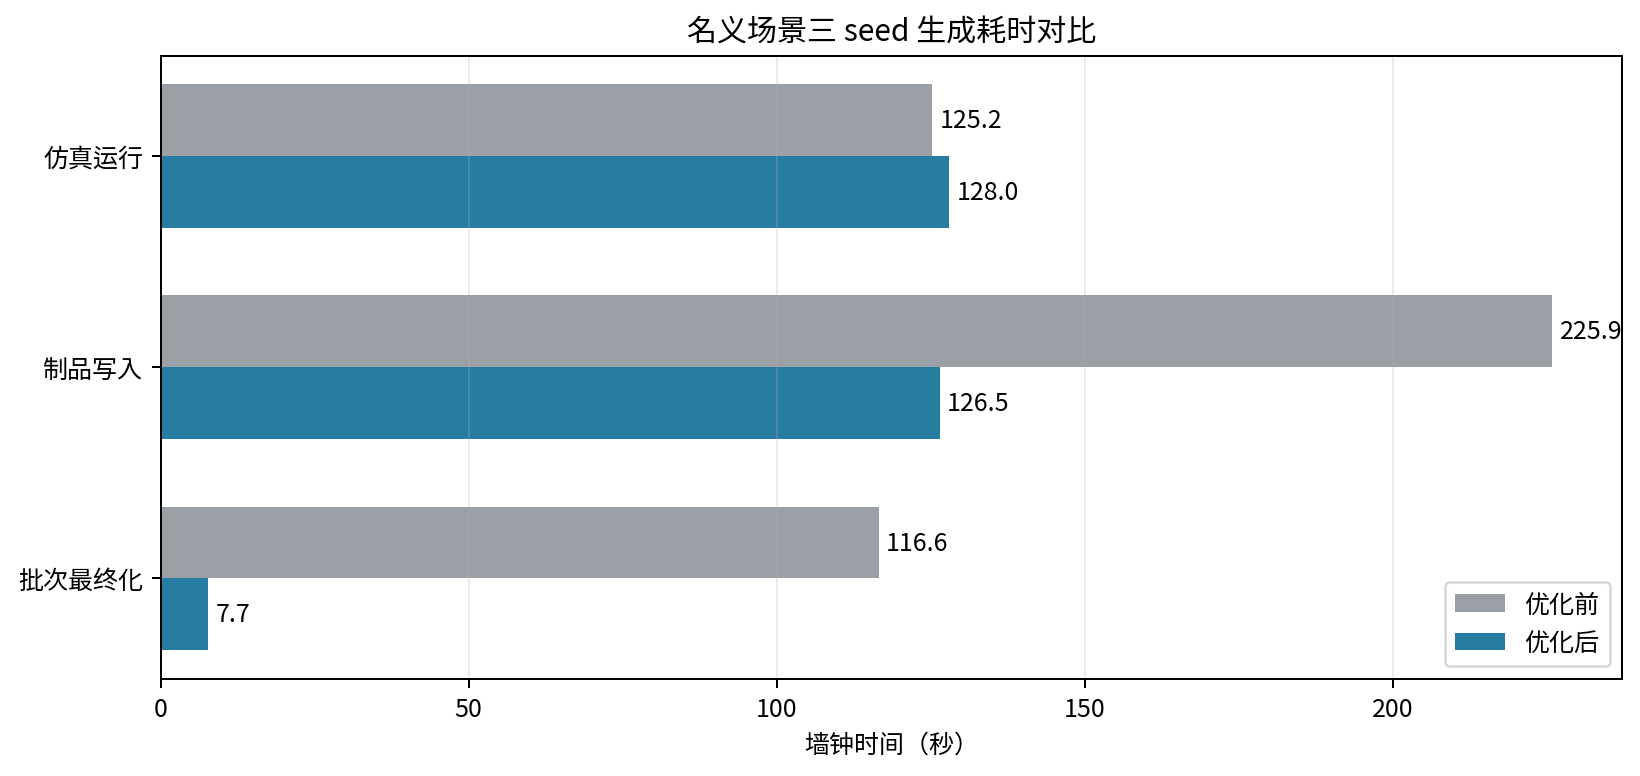
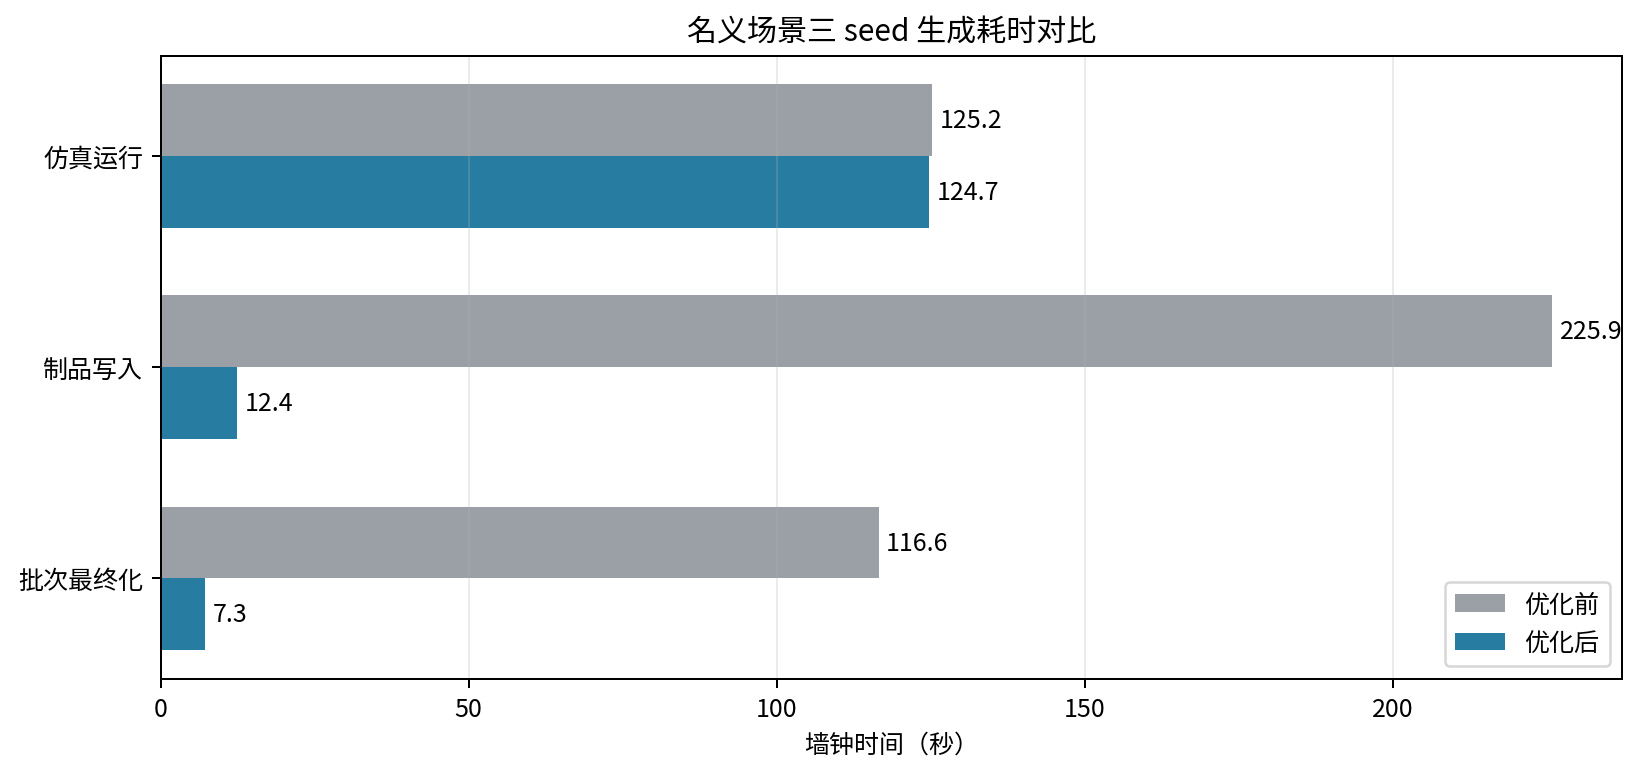
feat(sim): derive capacity gate from measured timings

Changed region(s): [[0.1244, 0.4639, 0.622, 0.5876], [0.5598, 0.1856, 0.622, 0.3093], [0.1244, 0.7732, 0.1555, 0.8041]]

diff --git a/research_modules/scalable_3d_simulation/capacity_reporting.py b/research_modules/scalable_3d_simulation/capacity_reporting.py
@@ -94,6 +94,10 @@ def write_capacity_probe_report(
         dataset_bytes=dataset_bytes,
         component_bytes=component_bytes,
         include_plots=write_plots,
+        timed_output_name=timed_root.name,
+        baseline_timed_output_name=(
+            None if baseline_timed_root is None else baseline_timed_root.name
+        ),
     )
     paths["report"] = report_path
     return paths
@@ -317,6 +321,8 @@ def _write_report(
     dataset_bytes: int,
     component_bytes: Mapping[str, int],
     include_plots: bool,
+    timed_output_name: str,
+    baseline_timed_output_name: str | None,
 ) -> None:
     learning = scenario_summary["learning_export_summary"]
     timing = timed_summary["timing_summary"]
@@ -339,6 +345,12 @@ def _write_report(
         else stage_components["D5 主动视觉"]
         / float(timing["artifact_stage_wall_s"])
     )
+    episode_run_wall_s = float(timing["episode_run_wall_s"])
+    data_pipeline_wall_s = (
+        float(timing["artifact_stage_wall_s"])
+        + float(timing["finalization_wall_s"])
+    )
+    data_pipeline_dominates = data_pipeline_wall_s >= episode_run_wall_s
     if baseline_timing is None:
         timing_conclusion = (
             f"名义场景三 seed 的完整生成耗时为 "
@@ -364,14 +376,24 @@ def _write_report(
             f"{float(baseline_timing['episode_run_wall_s']):.1f} 秒变为 "
             f"{float(timing['episode_run_wall_s']):.1f} 秒，基本不变。"
         )
-        gate_conclusion = (
-            "存储门和批次最终化门已通过。正式生成吞吐门暂不关闭："
-            f"D5 主动视觉写入占本轮 staging 的 {active_stage_share:.1%}，"
-            "若 900 个 episode 全部按 200 对 200 计，运行时间保守上界约 "
-            f"{all_200_runtime_upper_hours:.1f} 小时。runner 已实现 episode 边界分块恢复并通过"
-            "三 episode 开发回归；启动正式批次前仍需收敛主动视觉写入，并用首个正式代表"
-            "分块验证恢复合同。"
-        )
+        if data_pipeline_dominates:
+            gate_conclusion = (
+                "存储门和批次最终化门已通过。数据管线总耗时仍高于 episode 计算耗时，"
+                "正式代表分块启动门暂不关闭："
+                f"D5 主动视觉写入占本轮 staging 的 {active_stage_share:.1%}，"
+                "若 900 个 episode 全部按 200 对 200 计，运行时间保守上界约 "
+                f"{all_200_runtime_upper_hours:.1f} 小时。"
+            )
+        else:
+            gate_conclusion = (
+                "存储、最终化和代表分块启动门已通过。制品写入与最终化合计 "
+                f"{data_pipeline_wall_s:.1f} 秒，低于 episode 计算的 "
+                f"{episode_run_wall_s:.1f} 秒，数据管线不再主导总耗时。"
+                f"D5 主动视觉仍占 staging 的 {active_stage_share:.1%}，但绝对耗时已收敛。"
+                "若 900 个 episode 全部按 200 对 200 计，运行时间保守上界约 "
+                f"{all_200_runtime_upper_hours:.1f} 小时。首个 45-episode 代表分块可以启动；"
+                "完整 900 episode、20 个未见 seed 和 200 对 200 实时性目标仍保持开放。"
+            )
     lines = [
         "# 三维规模化仿真容量与运行时报告",
         "",
@@ -478,10 +500,34 @@ def _write_report(
                 f"| {label} | {value:.3f} | "
                 f"{value / float(timing['artifact_stage_wall_s']):.1%} |"
             )
+    per_episode_stage = [
+        float(row["artifact_stage_wall_s"])
+        for row in timed_rows
+        if "artifact_stage_wall_s" in row
+    ]
+    per_episode_active = [
+        float(row["d5_active_vision_stage_wall_s"])
+        for row in timed_rows
+        if "d5_active_vision_stage_wall_s" in row
+    ]
+    if per_episode_stage and per_episode_active:
+        stage_detail = (
+            "本轮三组 nominal seed 的单例制品写入为 "
+            + "/".join(f"{value:.2f}" for value in per_episode_stage)
+            + " 秒，其中 D5 主动视觉为 "
+            + "/".join(f"{value:.2f}" for value in per_episode_active)
+            + " 秒。D5 仍是 staging 的主要组件，但数据处理总耗时已低于 episode 计算耗时。"
+        )
+    else:
+        stage_detail = (
+            "本轮进度文件未提供完整的单例写入分项；报告只采用批次汇总，不推断组件瓶颈。"
+        )
     lines.extend(
         [
             "",
-            "优化后三组 nominal seed 的单例制品写入时间为 41.7、43.4 和 41.4 秒。D3、D4 和 D5 跨视角图写入合计不足 0.2 秒，剩余时间集中在 D5 主动视觉在线记录的构造和压缩。九场景旧长跑中曾出现一次约 51 分钟的异常停顿，现有日志不能判定为系统抢占还是写盘阻塞，不将该停顿线性外推。",
+            stage_detail,
+            "",
+            "九场景旧长跑中曾出现一次约 51 分钟的异常停顿，现有日志不能判定为系统抢占还是写盘阻塞，不将该停顿线性外推。",
             "",
             "## 图表",
             "",
@@ -502,18 +548,20 @@ def _write_report(
         [
             "## 后续工作",
             "",
-            "1. 保持 D3 当前导出路径和 D5 最终化复核，继续作为回归门。",
-            "2. 剖析并优化 D5 主动视觉 episode writer/压缩，不降低采样、不删除特征、不放松真值隔离。",
-            "3. 使用可恢复分块入口复跑五档规模和九类场景的代表 cell，验证正式计划恢复合同。",
-            "4. 吞吐门通过后启动 900 episode；100 个生成 seed 用于训练，1000-1019 只用于最终评估。",
+            "1. 保持 D3、D4、D5 当前导出与独立审计路径，继续作为数据合同回归门。",
+            "2. 启动首个 45-episode 代表分块，核对五档规模、九类场景、检查点和恢复合同。",
+            "3. 首块通过后按同一冻结计划恢复并完成 900 episode；100 个生成 seed 用于训练，1000-1019 只用于最终评估。",
+            "4. 单独剖析 episode 计算热点；不得用降低采样、删除特征或放松真值隔离换取速度。",
             "",
             "## 文件索引",
             "",
             "- 九场景进度：`outputs/capacity_probe_v2/all_scenarios_200v200/episode_progress.csv`",
             "- 九场景汇总：`outputs/capacity_probe_v2/all_scenarios_200v200/generation_summary.json`",
-            "- 优化前 timed 汇总：`outputs/capacity_probe_v2/nominal_timed/generation_summary.json`",
-            "- 优化后 timed 进度：`outputs/capacity_probe_v2/nominal_timed_postopt/episode_progress.csv`",
-            "- 优化后 timed 汇总：`outputs/capacity_probe_v2/nominal_timed_postopt/generation_summary.json`",
+            "- 优化前 timed 汇总：`outputs/capacity_probe_v2/"
+            + (baseline_timed_output_name or "<未提供>")
+            + "/generation_summary.json`",
+            f"- 当前 timed 进度：`outputs/capacity_probe_v2/{timed_output_name}/episode_progress.csv`",
+            f"- 当前 timed 汇总：`outputs/capacity_probe_v2/{timed_output_name}/generation_summary.json`",
             "- 固化结果表：`docs/SCALABLE_3D_CAPACITY_PROBE_RESULTS.csv`",
         ]
     )
@@ -561,7 +609,7 @@ def parse_args(argv: list[str] | None = None) -> argparse.Namespace:
     parser.add_argument(
         "--timed-output",
         type=Path,
-        default=module_root / "outputs" / "capacity_probe_v2" / "nominal_timed_postopt",
+        default=module_root / "outputs" / "capacity_probe_v2" / "nominal_timed_postopt2",
     )
     parser.add_argument(
         "--baseline-timed-output",

diff --git a/research_modules/scalable_3d_simulation/tests/test_capacity_reporting.py b/research_modules/scalable_3d_simulation/tests/test_capacity_reporting.py
@@ -123,7 +123,7 @@ def test_capacity_report_preserves_measured_results_without_plots(tmp_path) -> N
     assert "延迟噪声" in report
     assert "由 12.0 秒降至 9.0 秒" in report
     assert "D5 主动视觉" in report
-    assert "正式生成吞吐门暂不关闭" in report
+    assert "正式代表分块启动门暂不关闭" in report
     assert paths["results_csv"].read_text(encoding="utf-8-sig").startswith(
         "场景,seed,实时因子"
     )

diff --git a/subagent_reviews/MAIN_IMPLEMENTATION_GAP_AUDIT.md b/subagent_reviews/MAIN_IMPLEMENTATION_GAP_AUDIT.md
@@ -13,20 +13,20 @@
 seed 而保留 staging。九个 episode 的最终学习目录为 55.36 MB；全部 900 例均按本轮
 200v200 平均值计算的存储保守上界为 5.54 GB。存储 P1 门已关闭，5 GB 运行中停止门保留。
 
-同一 nominal seed 930-932 的优化前后 clean-tree 复测中，完整生成由 `467.8007 s` 降至
-`262.2866 s`，staging 由 `225.9243 s` 降至 `126.4682 s`，批次 finalization 由
-`116.5624 s` 降至 `7.7377 s`；episode run 为 `125.2205→127.9871 s`。D3 三 seed
-staging 为 `0.0917/0.1129/0.0999 s`，D5 graph 为 `0.0250/0.0259/0.0290 s`；D5
-active-vision writer/压缩为 `41.5623/43.2639/41.2271 s`，占总 staging 99.7%。D3 重复
-编码和 D5 重复 finalization 审计子项已关闭，正式生成吞吐 P1 仍由 D5 active-vision writer
-阻塞。runner 已实现 episode 边界暂停、同计划/同提交恢复、连续 progress 与 staging index
-复核；3-episode `1+2` 分块回归和计划/重复 index 篡改负例通过。不得以降低采样、删除特征
-或放松真值隔离换取耗时。冻结 schedule 已采用 `round_robin_cells_v1`，每连续 45 个 episode
-覆盖一次完整的 9 场景 × 5 规模目录，首个恢复分块具备代表性。
+同一 nominal seed 930-932 的第二轮 clean-tree 复测由提交
+`45b36500dc3c6935b1f116614993e291041eb12d` 产生，完整生成达到 `467.8007→144.5513 s`，
+staging `225.9243→12.4372 s`，批次 finalization `116.5624→7.2777 s`；episode run
+`125.2205→124.7415 s`。D5 active-vision 三 seed 为
+`4.0494/3.9898/3.9995 s`，由上一轮 `41.5623/43.2639/41.2271 s` 降低约一个数量级。
+三场均为有限状态、`repository_dirty=false`、在线真值使用 0。D5 仍占 staging 96.8%，
+但写入与最终化合计 19.7 秒，低于 episode 计算 124.7 秒，D5 writer 系统级 P1 阻塞关闭。
+runner 已实现 episode 边界暂停、同计划/同提交恢复、连续 progress 与 staging index 复核；
+3-episode `1+2` 分块回归和计划/重复 index 篡改负例通过。冻结 schedule 采用
+`round_robin_cells_v1`，每连续 45 个 episode 覆盖一次完整的 9 场景 × 5 规模目录。
 
-当前无新增 P0。900 episode、行为克隆/近端策略优化、20 个未见 seed、checkpoint、paired
-shadow 和模型准入仍未执行。main 在关闭 writer 并用首个正式代表分块验证恢复合同后，再连续
-执行冻结 schedule。
+当前无新增 P0。代表分块启动门已经通过；900 episode、行为克隆/近端策略优化、20 个未见
+seed、checkpoint、paired shadow 和模型准入仍未执行。main 下一步启动首个 45-episode
+正式代表分块，核对冻结目录、检查点和恢复合同，通过后继续执行冻结 schedule。
 
 ## 2026-07-20 三维 D1/D2/D6 真值隔离评估闭环
 
@@ -68,15 +68,16 @@ main 新增 `scalable3d-learning-generation-plan-v1` 流式生成入口。nomina
 1/2/3、6 个 2 秒开发 episode 全部有限且在线真值使用为 0；D3/D4/D5 图成功落盘，主动视觉
 107 帧因测试 seed 只有 1 个按预期不最终化。正式模式已在启动前检查完整场景/规模、训练与
 保留评估 seed 零重叠、干净工作树、忽略输出目录及 D5 至少 20 个未见测试 seed。开放 P1
-是 D6 outcome/counterfactual 回填、训练与模型准入。后续 clean-tree 九场景和三 seed 优化
-复测已经关闭存储与 finalization 子项；当前容量/吞吐状态以本文顶部专项为准。剩余 P1 是
-D5 active-vision writer/压缩、正式分块恢复证据，以及 900 episode 的运行与训练。
+是 D6 outcome/counterfactual 回填、训练与模型准入。后续 clean-tree 九场景和两轮三 seed
+优化复测已经关闭存储、finalization 和 D5 writer 系统级子项；当前容量/吞吐状态以本文顶部
+专项为准。剩余 P1 是首个正式 45-episode 分块恢复证据，以及 900 episode 的运行、标签回填
+和训练。
 
 main 已冻结 `scalable3d-balanced-curriculum-v1`：100 个生成 seed 均衡进入 45 个场景/规模
 cell，每 cell 20 个、总计 900 episode；seed 1000-1019 只用于最终评估。正式预检现会拒绝
 缺失交叉 cell、cell 分母不足、训练/评估 seed 交集和 D5 未见 seed 不足，并记录 schedule
-SHA256。runner 的可恢复分块软件合同已完成；D5 writer 收敛和首个正式代表分块验证前不得连续
-执行完整批次。
+SHA256。runner 的可恢复分块软件合同已完成，D5 writer 已由同 seed clean-tree 复测确认收敛；
+首个正式代表分块验证前不得连续执行完整批次。
 
 D6 已接入 `scalable3d-experiment-matrix-v1` 的独立离线审计，按 R0/G1/A1/A2/A3/C1/F1
 验证运行时实际采用证据、固定 cell 分母、同 comparison key 配对差值和 bootstrap 置信区间。

diff --git a/research_modules/scalable_3d_simulation/README.md b/research_modules/scalable_3d_simulation/README.md
@@ -88,9 +88,10 @@ python3 research_modules/scalable_3d_simulation/run_learning_dataset.py \
 5 档规模，避免首个分块只运行单一场景或单一规模。
 
 正式预检要求完整 45 个场景/规模组合且每个组合至少 20 个 seed，同时记录 schedule SHA256。
-九场景存储门和三 seed 批次最终化门已经通过；正式生成吞吐门仍保持开放。当前 D5 主动
-视觉 writer/压缩占 200v200 staging 的 99% 以上。在 writer 收敛并完成首个正式代表分块前，
-不连续启动上述完整批次。
+九场景存储门、三 seed 批次最终化门和代表分块启动门已经通过。D5 主动视觉仍占最新
+200v200 staging 的 96.8%，但三 seed 只需 12.04 秒，写入与最终化合计低于 episode 计算，
+不再形成系统级阻塞。先执行一个 45-episode 正式代表分块并核对恢复证据；首块通过前不连续
+启动其余完整批次。
 
 学习模型默认关闭。显式研究运行可增加下列参数；bundle 缺失、校验失败、分布外、低置信或
 超时均保留规则路径：
@@ -251,12 +252,14 @@ seed 只有 1 个而以 `insufficient_unseen_test_seeds` 保留 staging，符合
 5.54 GB。D3、D4 和 D5 跨视角图正常最终化，D5 主动视觉因不足 20 个未见测试 seed 保留
 staging，符合失败关闭。
 
-同一 nominal seed 930-932 的优化前后计时显示，总耗时由 467.8 秒降至 262.3 秒，staging
-由 225.9 秒降至 126.5 秒，批次最终化由 116.6 秒降至 7.7 秒；episode 运行保持在约
-125-128 秒。优化后 D3、D4、D5 图的三 seed staging 合计不足 0.5 秒，D5 主动视觉写入为
-126.1 秒，占 staging 的 99.7%。因此存储和最终化门已关闭，吞吐门仍由主动视觉 writer/
-压缩阻塞。runner 已支持 episode 边界分块暂停和严格恢复，正式规模恢复证据仍待首个代表
-分块取得。详细证据见 `docs/SCALABLE_3D_CAPACITY_AND_RUNTIME_REPORT_CN.md`。
+同一 nominal seed 930-932 的 clean-tree 计时经过两轮优化后，总耗时由 467.8 秒降至
+144.6 秒，staging 由 225.9 秒降至 12.4 秒，批次最终化由 116.6 秒降至 7.3 秒；episode
+运行保持在 124.7-125.2 秒。第二轮 D5 主动视觉写入为 12.04 秒，三场分别为
+4.05/3.99/4.00 秒。D5 仍占 staging 的 96.8%，但写入与最终化合计 19.7 秒，已低于
+episode 计算的 124.7 秒，不再主导总耗时。存储、最终化和首个正式代表分块启动门已经
+通过；完整 900 episode、20 个未见 seed 和 200v200 实时性目标仍开放。runner 已支持
+episode 边界分块暂停和严格恢复，下一项证据是首个 45-episode 正式代表分块。详细结果见
+`docs/SCALABLE_3D_CAPACITY_AND_RUNTIME_REPORT_CN.md`。
 
 每个物理步结束后，离线评估侧按三维 5 米门限登记唯一接近事件。事件中的真值目标号只
 写入 `offline_proximity_intercepts.jsonl`，不进入在线总线；D6 还需结合分配与身份映射

diff --git a/research_modules/scalable_3d_simulation/PLAN.md b/research_modules/scalable_3d_simulation/PLAN.md
@@ -153,13 +153,14 @@ commit。
   最终学习目录 55.36 MB；全部 900 例均按该平均值计算的存储保守上界为 5.54 GB。
   D3、D4 和 D5 跨视角图正常最终化，D5 主动视觉因不足 20 个未见测试 seed 保留 staging。
   存储门已通过，5 GB 运行中停止门继续保留。
-- nominal seed 930-932 的 clean-tree 优化复测中，总耗时 `467.8→262.3 s`，staging
-  `225.9→126.5 s`，批次 finalization `116.6→7.7 s`；episode run `125.2→128.0 s`。
-  D3、D4 和 D5 图三 seed staging 合计不足 0.5 秒，D5 主动视觉 writer/压缩为 126.1 秒，
-  占 staging 99.7%。因此最终化门已通过，正式生成吞吐门仍开放；不得通过降低采样、删除
-  特征或放松真值隔离缩短时间。runner 已实现 episode 边界暂停、同计划/同提交恢复、连续
-  progress 与 staging index 复核；3-episode `1+2` 分块回归及计划/重复 index 篡改负例通过。
-  下一步先优化 writer，再用首个正式代表分块验证恢复合同，然后启动后续 900 episode。
+- nominal seed 930-932 的第二轮 clean-tree 复测中，总耗时进一步达到 `467.8→144.6 s`，
+  staging `225.9→12.4 s`，批次 finalization `116.6→7.3 s`；episode run
+  `125.2→124.7 s`。D5 主动视觉三 seed staging 为 `4.05/3.99/4.00 s`，合计 12.04 秒。
+  它仍占 staging 96.8%，但制品写入与最终化合计 19.7 秒，低于 episode 计算 124.7 秒，
+  D5 writer 系统级阻塞已关闭。不得通过降低采样、删除特征或放松真值隔离继续换取速度。
+  runner 已实现 episode 边界暂停、同计划/同提交恢复、连续 progress 与 staging index 复核；
+  3-episode `1+2` 分块回归及计划/重复 index 篡改负例通过。下一步启动首个 45-episode
+  正式代表分块，验证冻结 schedule 和恢复合同；完整 900 episode 与实时性目标仍开放。
 - 首版正式训练 schedule 已冻结为 `learning_generation_balanced_v1.json`：100 个生成 seed
   通过五个分块按场景/规模均衡轮换，每个 45 个 cell 各有 20 个 seed，共 900 episode；
   seed 1000-1019 保留为最终评估集。runner 在开始前核对完整笛卡尔目录、逐 cell 分母、
